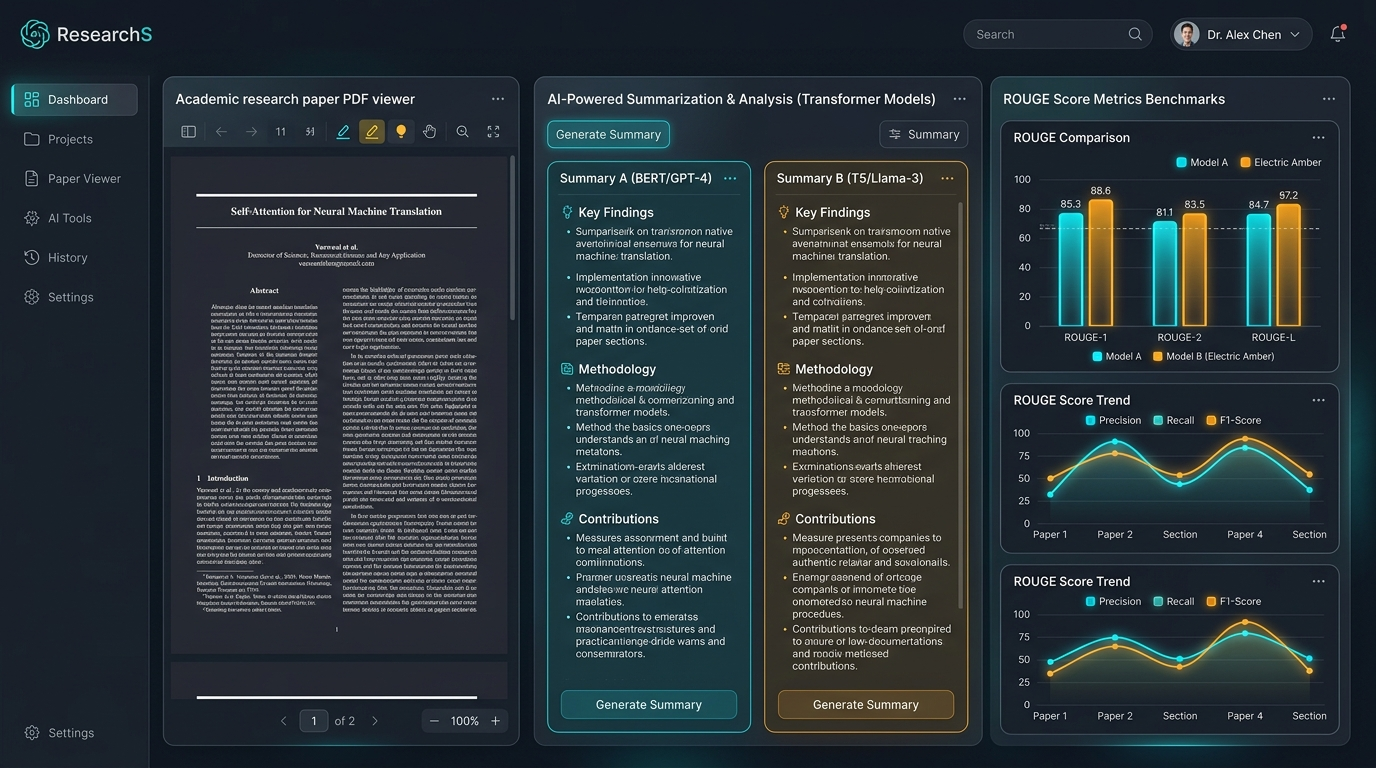
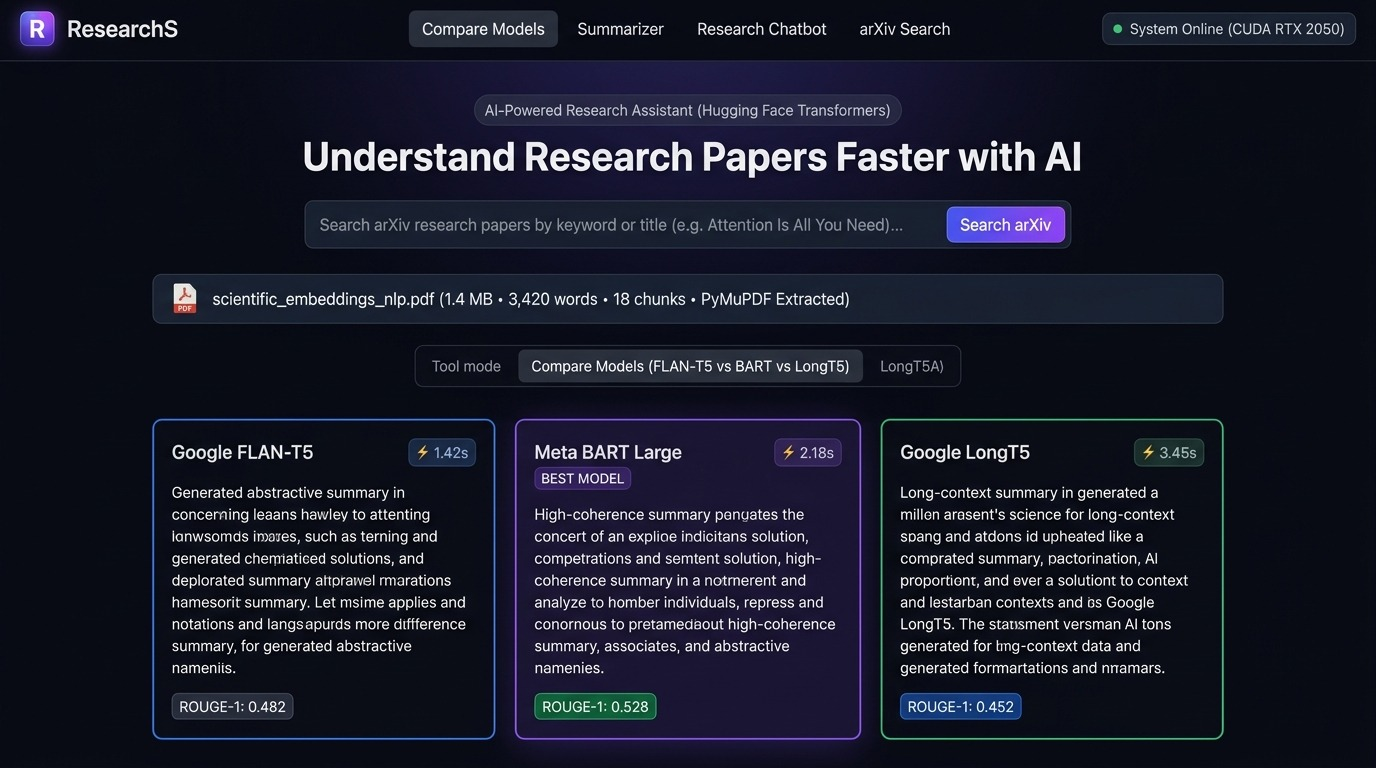
feat(projects): add MRI Brain Tumor live demo on Render and update ResearchS UI visual

diff --git a/index.html b/index.html
@@ -447,7 +447,7 @@
                 <!-- Project 3: ResearchS – AI-Powered Research Assistant -->
                 <article class="project-card glass-card" data-category="aiml" data-tilt>
                     <div class="project-media">
-                        <img src="assets/images/researchs.jpg" alt="ResearchS AI-powered research paper analysis and summarizer"
+                        <img src="assets/images/researchs.jpg?v=2" alt="ResearchS AI-powered research paper analysis and summarizer"
                             loading="lazy" decoding="async" width="600" height="345"
                             onerror="this.onerror=null; this.src='assets/images/fallback-researchs.svg';">
                         <div class="project-badge top-badge accent-blue"><i class="fas fa-wand-magic-sparkles"></i> NLP &amp; Transformers</div>
@@ -497,10 +497,15 @@
                         </div>
                         <div class="project-overlay">
                             <div class="overlay-actions">
-                                <a href="https://github.com/Sidd-commits/Brain-Tumor-Detection" target="_blank"
+                                <a href="https://github.com/Sidd-commits/MRI-Brain-Tumor-Detection-System" target="_blank"
                                     rel="noopener" class="icon-link"
-                                    aria-label="Brain Tumor Detection GitHub Repository" title="View Source Code">
+                                    aria-label="MRI Brain Tumor Detection GitHub Repository" title="View Source Code">
                                     <i class="fab fa-github"></i>
+                                </a>
+                                <a href="https://mribraintumordetection.onrender.com/" target="_blank"
+                                    rel="noopener" class="icon-link icon-link-live"
+                                    aria-label="MRI Brain Tumor Detection Live Demo on Render" title="Live Demo">
+                                    <i class="fas fa-arrow-up-right-from-square"></i>
                                 </a>
                             </div>
                         </div>
@@ -524,9 +529,13 @@
                             <span class="tech-badge"><i class="fas fa-flask"></i> Flask</span>
                         </div>
                         <div class="project-footer">
-                            <a href="https://github.com/Sidd-commits/Brain-Tumor-Detection" target="_blank"
-                                rel="noopener" class="project-btn">
-                                <span>Explore GitHub</span> <i class="fas fa-arrow-up-right-from-square"></i>
+                            <a href="https://mribraintumordetection.onrender.com/" target="_blank" rel="noopener"
+                                class="project-btn project-btn-live">
+                                <i class="fas fa-globe"></i> <span>Live Demo</span> <i class="fas fa-arrow-up-right-from-square"></i>
+                            </a>
+                            <a href="https://github.com/Sidd-commits/MRI-Brain-Tumor-Detection-System" target="_blank"
+                                rel="noopener" class="project-btn project-btn-github">
+                                <i class="fab fa-github"></i> <span>GitHub Code</span>
                             </a>
                         </div>
                     </div>

diff --git a/README.md b/README.md
@@ -17,7 +17,7 @@ Designed with a sleek dark-mode glassmorphic aesthetic featuring:
   - **VyaparFlow**: Deterministic export compliance & logistics SaaS ([Live Demo](https://vyaparflow-smoky.vercel.app/) | [GitHub](https://github.com/Sidd-commits/VyaparFlow))
   - **ResearchS**: AI-powered academic paper NLP analysis, multi-model summarization, and ROUGE evaluation platform ([GitHub](https://github.com/Sidd-commits/ResearchS))
   - **KrishiSahayata**: Agri-tech platform (Code-o-Fiesta Finalist) ([GitHub](https://github.com/Sidd-commits/KrishiSahayata))
-  - **Brain Tumor Detection**: VGG16 transfer learning MRI diagnostic system ([GitHub](https://github.com/Sidd-commits/Brain-Tumor-Detection))
+  - **Brain Tumor Detection**: VGG16 transfer learning MRI diagnostic system ([Live Demo](https://mribraintumordetection.onrender.com/) | [GitHub](https://github.com/Sidd-commits/MRI-Brain-Tumor-Detection-System))
   - **CyberSentinel Suite**: 4-in-1 cybersecurity intrusion & attack simulator ([GitHub](https://github.com/Sidd-commits/CyberSentinel-Suite))
   - **VoteEase**: Secure online voting platform ([GitHub](https://github.com/Sidd-commits/VoteEase))
   - **Library Management**: Database inventory management system ([GitHub](https://github.com/Sidd-commits/Library-Management-System))
